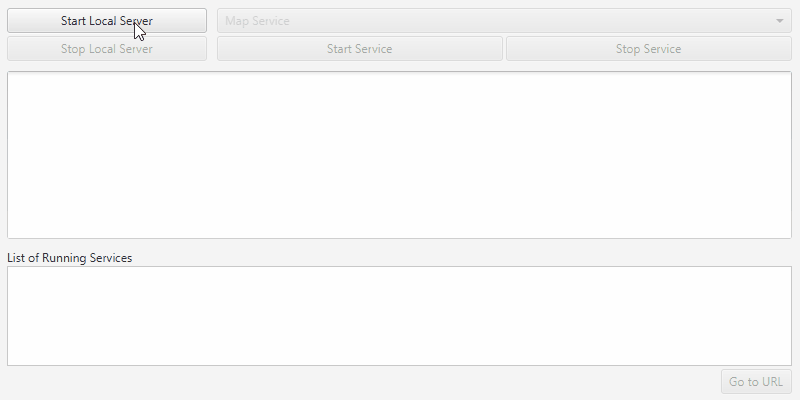
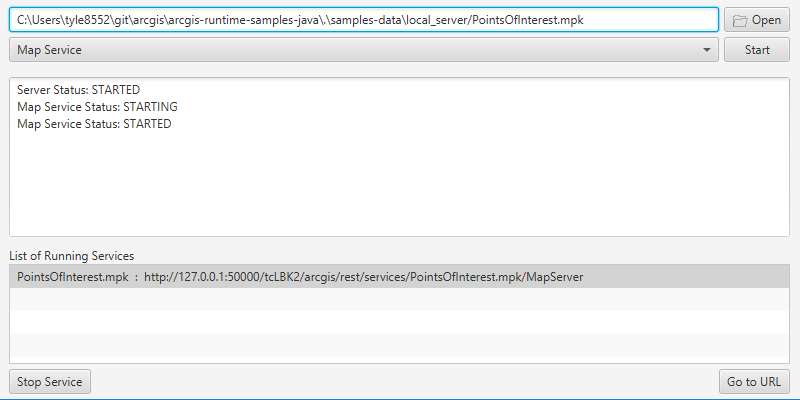
updated UI and file choosing logic

diff --git a/src/main/java/com/esri/samples/localserver/local_server_services/LocalServerServicesController.java b/src/main/java/com/esri/samples/localserver/local_server_services/LocalServerServicesController.java
@@ -16,6 +16,8 @@
 
 package com.esri.samples.localserver.local_server_services;
 
+import static javafx.stage.FileChooser.ExtensionFilter;
+
 import java.io.File;
 
 import com.esri.arcgisruntime.localserver.LocalFeatureService;
@@ -24,79 +26,92 @@ import com.esri.arcgisruntime.localserver.LocalMapService;
 import com.esri.arcgisruntime.localserver.LocalServer;
 import com.esri.arcgisruntime.localserver.LocalServerStatus;
 import com.esri.arcgisruntime.localserver.LocalService;
-import com.esri.arcgisruntime.util.ListenableList;
 
 import javafx.application.HostServices;
 import javafx.application.Platform;
 import javafx.fxml.FXML;
 import javafx.scene.control.Button;
 import javafx.scene.control.ComboBox;
-import javafx.scene.control.Label;
+import javafx.scene.control.ListCell;
 import javafx.scene.control.ListView;
 import javafx.scene.control.TextArea;
+import javafx.scene.control.TextField;
 import javafx.stage.FileChooser;
 
 public class LocalServerServicesController {
 
-  @FXML private Button btnStartServer;
+  @FXML private TextField packagePath;
   @FXML private ComboBox<String> serviceOptions;
-  @FXML private Label selectedPackageLabel;
   @FXML private TextArea statusLog;
-  @FXML private ListView<String> runningServices;
+  @FXML private ListView<LocalService> runningServices;
+  @FXML private Button stopServiceButton;
 
-  private ListenableList<LocalService> services;
   private HostServices hostServices;
+  private FileChooser packageChooser;
 
   private static final LocalServer server = LocalServer.INSTANCE;
 
   @FXML
   private void initialize() {
-    // watch server status
-    server.addStatusChangedListener(status -> {
-      statusLog.appendText("Server Status: " + status.getNewStatus().toString() + "\n");
-      btnStartServer.setDisable(status.getNewStatus() == LocalServerStatus.STARTED);
-      handleSelectServiceOption();
-    });
-  }
 
-  /** 
-   * Handles starting a local server.
-   */
-  @FXML
-  private void handleStartLocalServer() {
-    // start local server
+    // start the local server
     server.startAsync();
 
-    // get observable list of services
-    services = server.getServices();
-  }
+    // log the server status
+    server.addStatusChangedListener(status ->
+        statusLog.appendText("Server Status: " + status.getNewStatus().toString() + "\n")
+    );
 
-  /** 
-   * Handles stopping a local server.
-   */
-  @FXML
-  private void handleStopLocalServer() {
-    // stop local server
-    if (server.getStatus() == LocalServerStatus.STARTED) {
-      server.stopAsync();
-    }
+    // setup UI bindings
+    stopServiceButton.disableProperty().bind(runningServices.getSelectionModel().selectedItemProperty().isNull());
+    packagePath.textProperty().addListener(o -> {
+      serviceOptions.getItems().clear();
+      String[] uriParts = packagePath.getText().split("\\.");
+      if (uriParts.length > 0) {
+        String extension = uriParts[uriParts.length - 1];
+        switch (extension) {
+          case "mpk": serviceOptions.getItems().addAll("Map Service", "Feature Service"); break;
+          case "gpk": serviceOptions.getItems().add("Geoprocessing Service");
+        }
+        serviceOptions.getSelectionModel().select(0);
+      }
+    });
 
-    // remove listed running services
-    runningServices.getItems().clear();
+    // create a file chooser to select package files
+    packageChooser = new FileChooser();
+    ExtensionFilter extensionFilter = new ExtensionFilter("Local Server Packages", "*.mpk", "*.gpk");
+    packagePath.textProperty().bind(packageChooser.initialFileNameProperty());
+    packageChooser.setInitialDirectory(new File("./samples-data/local_server"));
+    packageChooser.setInitialFileName(packageChooser.getInitialDirectory().getAbsolutePath() + "/PointsOfInterest.mpk");
+    packageChooser.getExtensionFilters().add(extensionFilter);
+    packageChooser.setSelectedExtensionFilter(extensionFilter);
+
+    // create list view representation of running services
+    runningServices.setCellFactory(list ->
+      new ListCell<LocalService>(){
+
+        @Override
+        protected void updateItem(LocalService service, boolean bln) {
+          super.updateItem(service, bln);
+          if (service != null) {
+            setText(service.getName() + "  :  " + service.getUrl());
+          }
+        }
+
+      }
+    );
   }
 
   /**
-   * Creates and starts the selected local service in the dropdown.
-   * <p>
-   * Shows a warning popup if the local service is already running.
+   * Creates and starts the selected service.
    */
   @FXML
-  private void handleStartSelectedService() {
+  private void startSelectedService() {
+
     String selected = serviceOptions.getSelectionModel().getSelectedItem();
     // create local service
-    final String serviceUrl;
     final LocalService localService;
-    serviceUrl = new File(selectedPackageLabel.getText()).getAbsolutePath();
+    final String serviceUrl = packageChooser.getInitialFileName();
     switch (selected) {
       case "Map Service":
         localService = new LocalMapService(serviceUrl);
@@ -116,57 +131,42 @@ public class LocalServerServicesController {
       localService.addStatusChangedListener(status -> {
         statusLog.appendText(selected + " Status: " + status.getNewStatus().toString() + "\n");
         if (status.getNewStatus() == LocalServerStatus.STARTED) {
-          Platform.runLater(() -> runningServices.getItems().add(selected + " URL ->  " + localService.getUrl()));
+          Platform.runLater(() -> runningServices.getItems().add(localService));
         }
       });
       localService.startAsync();
     }
   }
-  
+
+  /**
+   * Opens a dialog to choose a package file.
+   */
   @FXML
-  private void handleSelectServiceOption() {
-    String selected = serviceOptions.getSelectionModel().getSelectedItem();
-    String pathStart = "./samples-data/local_server/";
-    switch (selected) {
-      case "Map Service":
-      case "Feature Service":
-        selectedPackageLabel.setText(pathStart + "PointsofInterest.mpk");
-        break;
-      case "Geoprocessing Service":
-        selectedPackageLabel.setText(pathStart +  "MessageInABottle.gpk");
-        break;
-      default:
-        break;
+  private void openPackage() {
+
+    File selectedFile = packageChooser.showOpenDialog(packagePath.getScene().getWindow());
+    if (selectedFile != null) {
+      packageChooser.setInitialFileName(selectedFile.getAbsolutePath());
     }
-  }
-  
-  @FXML
-  private void handleSelectPackage() {
-    File selectedFile = new FileChooser().showOpenDialog(btnStartServer.getScene().getWindow());
-    if (selectedFile == null) {
-      return;
-    }
-    selectedPackageLabel.setText(selectedFile.getAbsolutePath());
   }
 
   /**
    * Stops the selected service from the running services list.
    */
   @FXML
-  private void handleStopSelectedService() {
-
-    int selectedIndex = runningServices.getSelectionModel().getSelectedIndex();
-    services.get(selectedIndex).stopAsync();
-    runningServices.getItems().remove(selectedIndex);
+  private void stopSelectedService() {
+    LocalService selectedService = runningServices.getSelectionModel().getSelectedItem();
+    selectedService.stopAsync();
+    runningServices.getItems().remove(selectedService);
   }
 
   /** 
    * Opens a browser to the url of the selected service.
    */
   @FXML
-  private void handleURL() {
+  private void openServiceURL() {
 
-    String url = runningServices.getSelectionModel().getSelectedItem().split(">")[1].trim();
+    String url = runningServices.getSelectionModel().getSelectedItem().getUrl();
     hostServices.showDocument(url);
   }
 

diff --git a/src/main/java/com/esri/samples/localserver/local_server_services/README.md b/src/main/java/com/esri/samples/localserver/local_server_services/README.md
@@ -1,6 +1,6 @@
 <h1>Local Server Services</h1>
 
-<p>Demonstrates how to start and stop a Local Server and start and stop a Local Map, Feature, and Geoprocessing Service to that server.</p>
+<p>Demonstrates how to start and stop map, feature, and geoprocessing services on the Local Server.</p>
 
 <p><b>Note:</b> Local Server is not supported on MacOS</p>
 
@@ -8,48 +8,28 @@
 
 <h2>How to use the sample</h2>
 
-<p>Local Server Controls (Top Left): </p>
-  <ul><li> Start Local Server -- Starts a Local Server if one is not already running.</li>
-  <li> Stop Local Server --  Stops a Local Server if one is running. </li></ul>
+<p>Choose a .mpk or .gpk file to process by clicking the Open button and choosing a package file from the dialog. 
+Choose a service type (Map, Feature, or Geoprocessing) corresponding to the file you chose. Click the start button 
+to start the service. The service's status will be displayed in the center log.</p>
 
-<p>Local Services Controls (Top Right): </p>
-  <ul><li> Combo Box -- Allows for the selection of a Local Map, Feature, or Geoprocessing Service.</li>
-  <li> Start Service -- Starts the Service that is selected in the combo box.</li>
-  <li> Stop Service --  Stops the Service that is selected in the <code>List of Running Services</code>.</li></ul>
-
-<p>Text Area (Middle): </p>
-  <ul><li> Displays the running status of the Local Server and any services that are added to that server. </li></ul>
-
-<p>List of Running Services (Bottom): </p>
-  <ul><li> Displays any services that are currently running on the server and allows for one of the services to be selected.</li> 
-  <li> Go to URL -- Opens browser to the service that is selected in the <code>List of Running Services</code>. </li></ul>
+<p>To stop a service, select it from the Running Services list and click the Stop Service button. To go to the 
+service's URL in your default web browser, select it and click the Go to URL button.</p>
 
 <h2>How it works</h2>
 
-<p>To start a <code>LocalServer</code> and start a <code>LocalService</code> to it:</p>
+<p>To start a <code>LocalService</code>:</p>
 
 <ol>
-<li>Create and run a local server.
+<li>Start the local server.
 <ul><li><code>LocalServer.INSTANCE</code> creates a local server</li>
-<li><code>Server.startAsync()</code> starts the server asynchronously</li></ul></li>
+<li><code>server.startAsync()</code> starts the server asynchronously</li></ul></li>
 <li>Wait for server to be in the  <code>LocalServerStatus.STARTED</code> state.
-<ul><li><code>Server.addStatusChangedListener()</code> fires whenever the running status of the local server has changed.</li></ul></li>
-<li>Create and run a local service, example of running a <code>LocalMapService</code>.
-<ul><li><code>new LocalMapService(Url)</code>, creates a local map service with the given url path to mpk file</li>
-<li><code>Service.startAsync()</code>, starts the service asynchronously</li>
-<li>service will be added to the local server automatically </li></ul></li>
-</ol>
-
-<p>To stop a <code>LocalServer</code> and stop any <code>LocalService</code>s that are added to it:</p>
-
-<ol>
-<li>Get any services that are currently running on the local server, <code>Server.getServices()</code>.</li>
-<li>Loop through all services and stop any that are currently started.
-<ul><li>check service is started, <code>Service.getStatus()</code> equals <code>LocalServerStatus.STARTED</code></li>
-<li><code>Service.stopAsync()</code>, stops the service asynchronously</li></ul></li>
-<li>Wait for all services to be in the <code>LocalServerStatus.STOPPED</code> state.
-<ul><li><code>Service.addStatusChangedListener()</code> fires whenever the running status of the local service has changed.</li></ul></li>
-<li>Stop the local server, <code>Server.stopAsync()</code>.</li>
+<ul><li><code>Server.addStatusChangedListener()</code> fires whenever the running status of the local server 
+changes</li></ul></li>
+<li>Create and run a local service.
+<ul><li><code>new LocalMapService(Url)</code> creates a local map service with the given url path to mpk file</li>
+<li><code>service.startAsync()</code> starts the service asynchronously</li></ul></li>
+<li> Stop the service with <code>service.stopAsync().</code></li>
 </ol>
 
 <h2>Features</h2>
